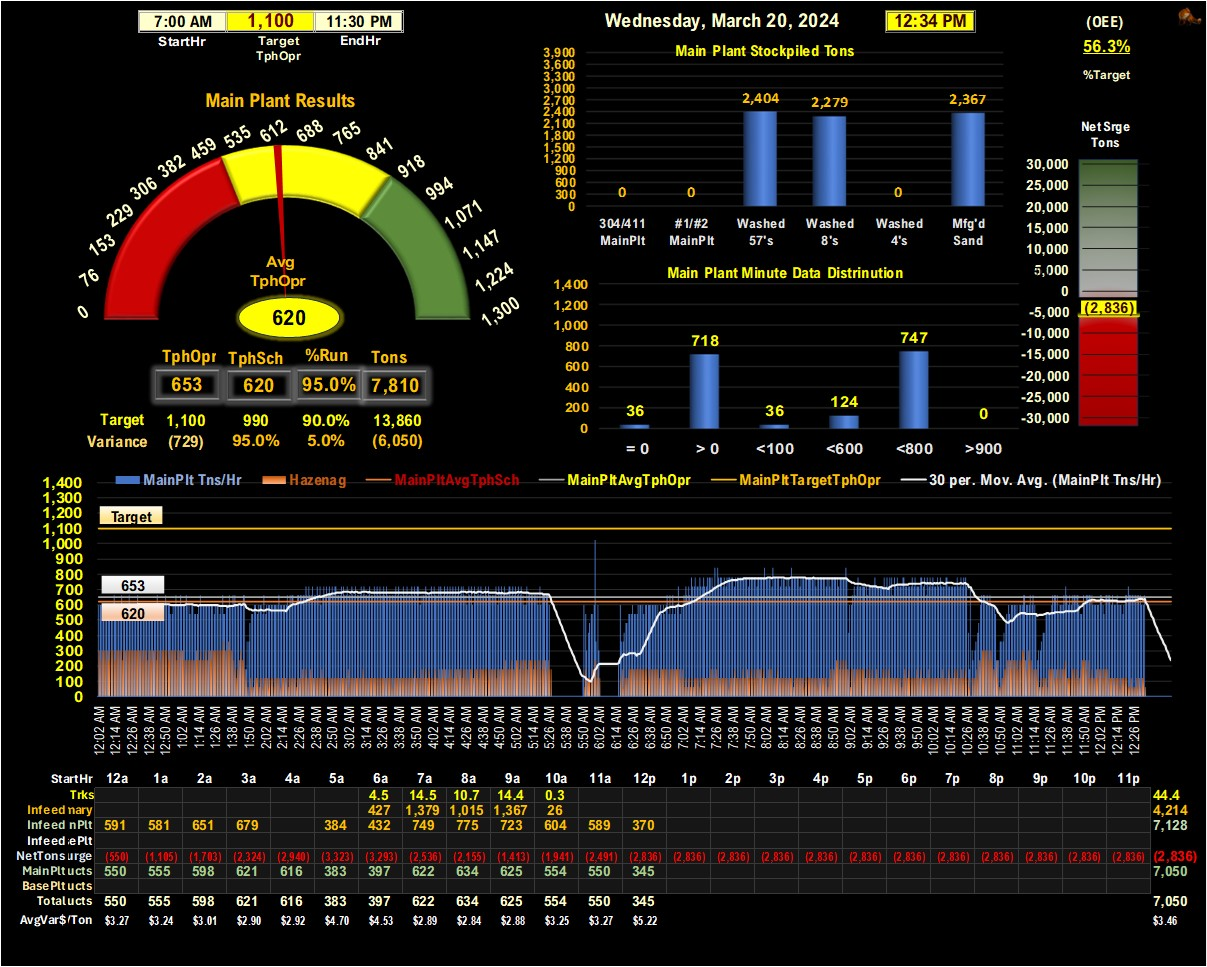
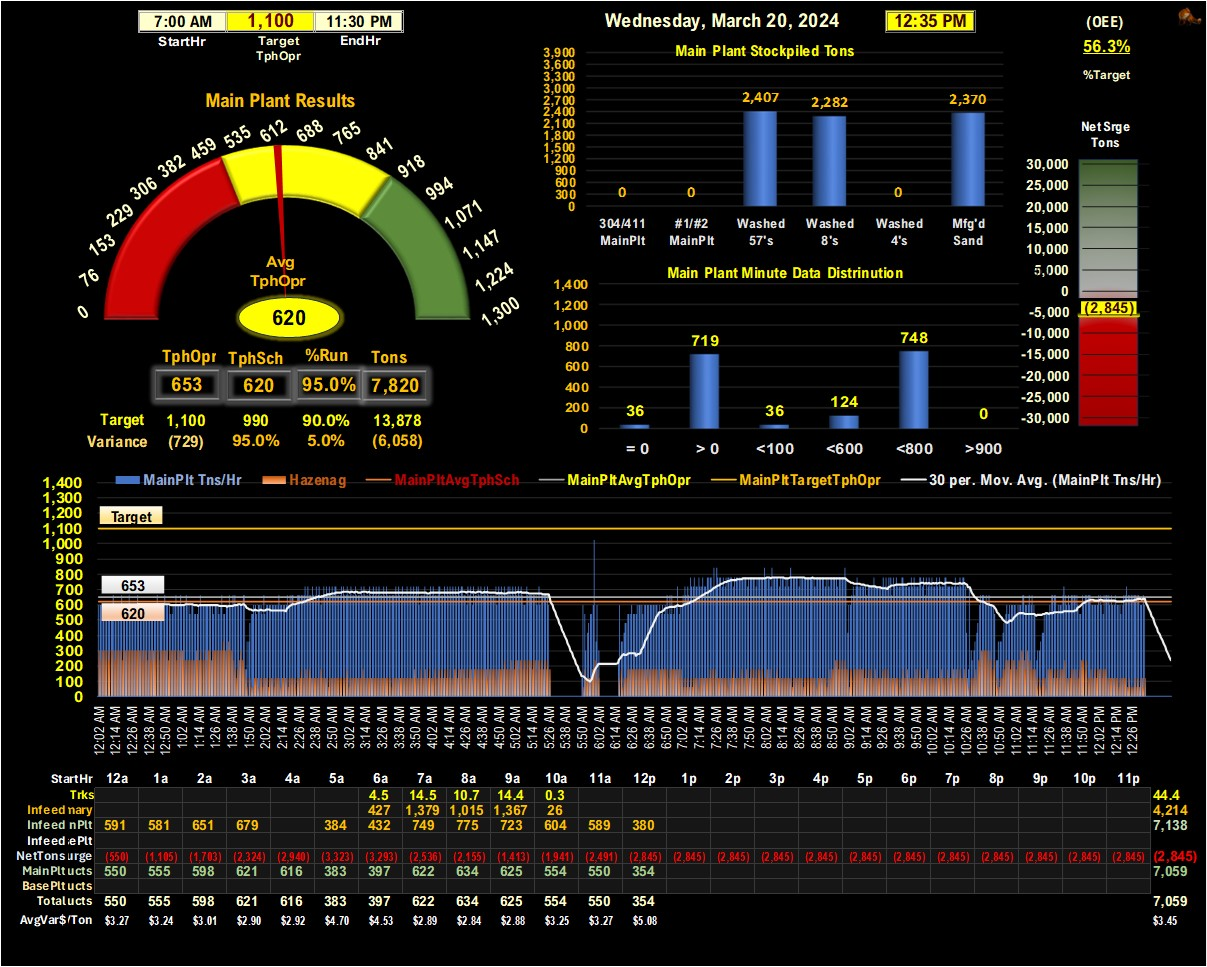
new commit

diff --git a/ColLSPlant1.py b/ColLSPlant1.py
@@ -99,7 +99,7 @@ def main():
     st.image(image, use_column_width=True)
 
     # Wait for 60 seconds before the next iteration
-    time.sleep(60)  
+    time.sleep(30)  
     rerun()
 
 
